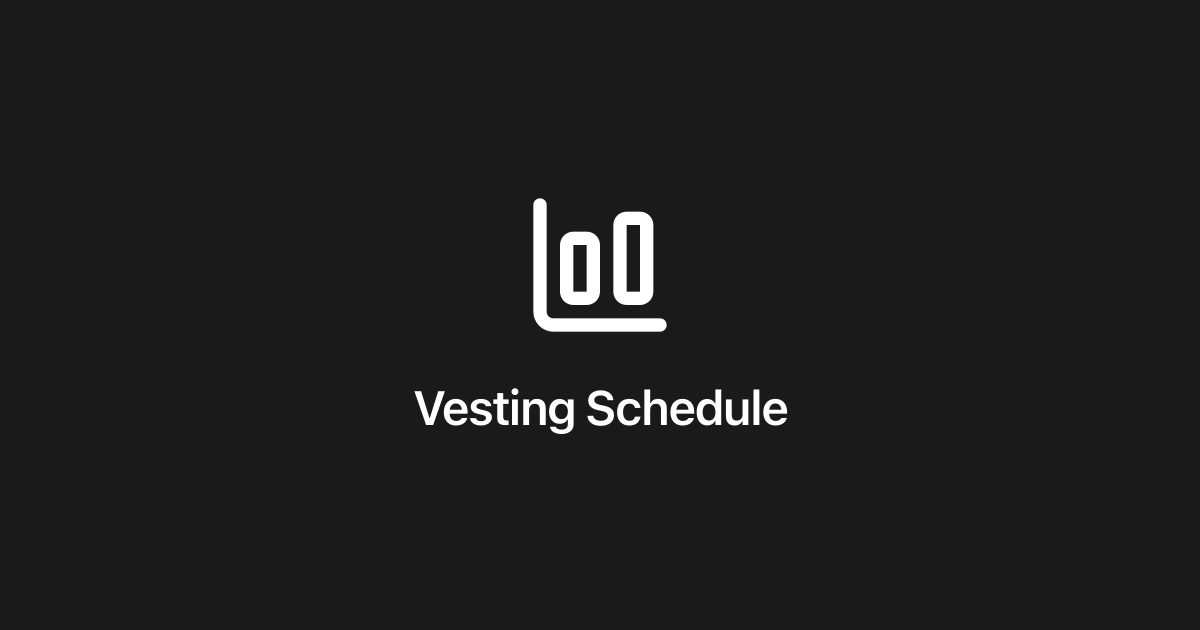
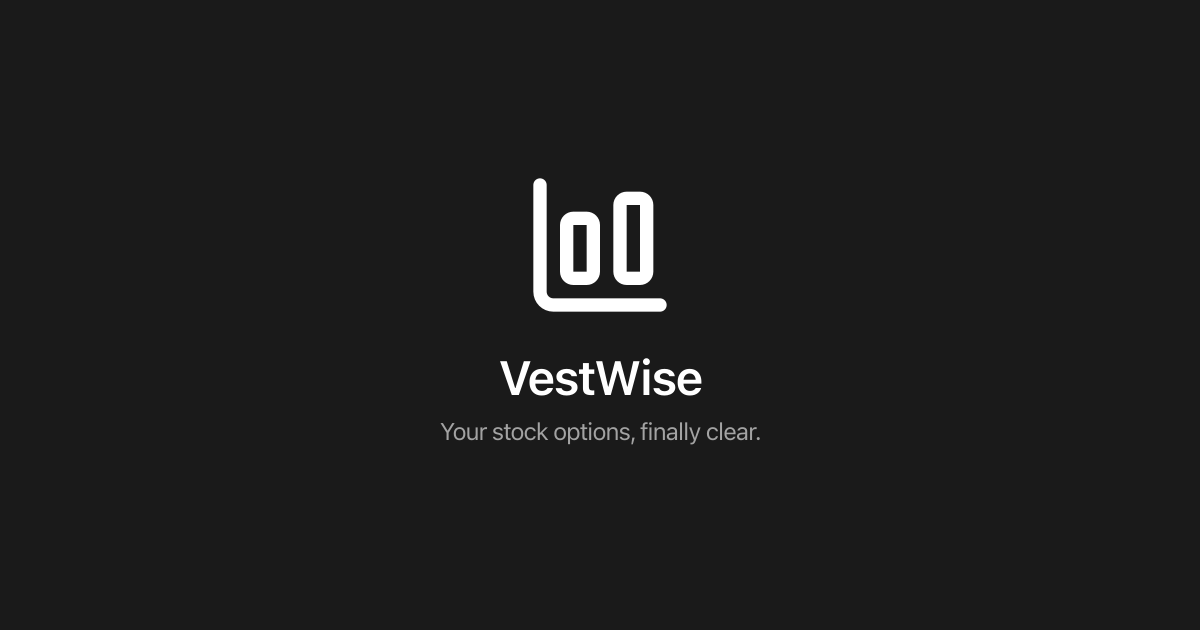
Rebrand to VestWise with vestwise.app domain

diff --git a/index.html b/index.html
@@ -4,23 +4,23 @@
     <meta charset="UTF-8" />
     <link rel="icon" type="image/svg+xml" href="/favicon.svg" />
     <meta name="viewport" content="width=device-width, initial-scale=1.0" />
-    <title>Vesting Schedule</title>
-    <meta name="description" content="The best website to keep track of the vesting schedule for VSOPs." />
+    <title>VestWise</title>
+    <meta name="description" content="Your stock options, finally clear." />
 
     <!-- Open Graph -->
     <meta property="og:type" content="website" />
-    <meta property="og:url" content="https://vesting-schedule-phi.vercel.app/" />
-    <meta property="og:title" content="Vesting Schedule" />
-    <meta property="og:description" content="The best website to keep track of the vesting schedule for VSOPs." />
-    <meta property="og:image" content="https://vesting-schedule-phi.vercel.app/og-image.png" />
+    <meta property="og:url" content="https://vestwise.app/" />
+    <meta property="og:title" content="VestWise" />
+    <meta property="og:description" content="Your stock options, finally clear." />
+    <meta property="og:image" content="https://vestwise.app/og-image.png" />
     <meta property="og:image:width" content="1200" />
     <meta property="og:image:height" content="630" />
 
     <!-- Twitter Card -->
     <meta name="twitter:card" content="summary_large_image" />
-    <meta name="twitter:title" content="Vesting Schedule" />
-    <meta name="twitter:description" content="The best website to keep track of the vesting schedule for VSOPs." />
-    <meta name="twitter:image" content="https://vesting-schedule-phi.vercel.app/og-image.png" />
+    <meta name="twitter:title" content="VestWise" />
+    <meta name="twitter:description" content="Your stock options, finally clear." />
+    <meta name="twitter:image" content="https://vestwise.app/og-image.png" />
   </head>
   <body>
     <div id="root"></div>

diff --git a/src/components/dashboard/vesting-dashboard.tsx b/src/components/dashboard/vesting-dashboard.tsx
@@ -23,7 +23,7 @@ export function VestingDashboard({ grants }: VestingDashboardProps) {
         <ChartColumnBig className="size-12 text-muted-foreground/50" />
         <div className="flex flex-col gap-1.5">
           <h2 className="text-lg font-semibold">
-            Track your VSOP vesting schedule
+            Track your stock options
           </h2>
           <p className="max-w-sm text-sm text-muted-foreground">
             Add your stock option grants to visualize vesting progress, see

diff --git a/src/components/app-sidebar.tsx b/src/components/app-sidebar.tsx
@@ -34,7 +34,7 @@ export function AppSidebar() {
               <div className="flex size-8 shrink-0 items-center justify-center rounded-lg bg-primary text-primary-foreground [&_svg]:size-4">
                 <ChartColumnBigIcon />
               </div>
-              <span className="font-semibold">Vesting Schedule</span>
+              <span className="font-semibold">VestWise</span>
             </SidebarMenuButton>
           </SidebarMenuItem>
         </SidebarMenu>

diff --git a/CLAUDE.md b/CLAUDE.md
@@ -4,7 +4,7 @@ This file provides guidance to Claude Code (claude.ai/code) when working with co
 
 ## Project Overview
 
-VSOP (Virtual Stock Option Plan) vesting schedule tracker. Client-only React + TypeScript website that lets users fill in grant details via a form and displays metrics and graphs for the vesting schedule.
+VestWise (vestwise.app) — stock option vesting tracker. Client-only React + TypeScript website that lets users fill in grant details via a form and displays metrics and graphs for the vesting schedule.
 
 ## Tech Stack
 
